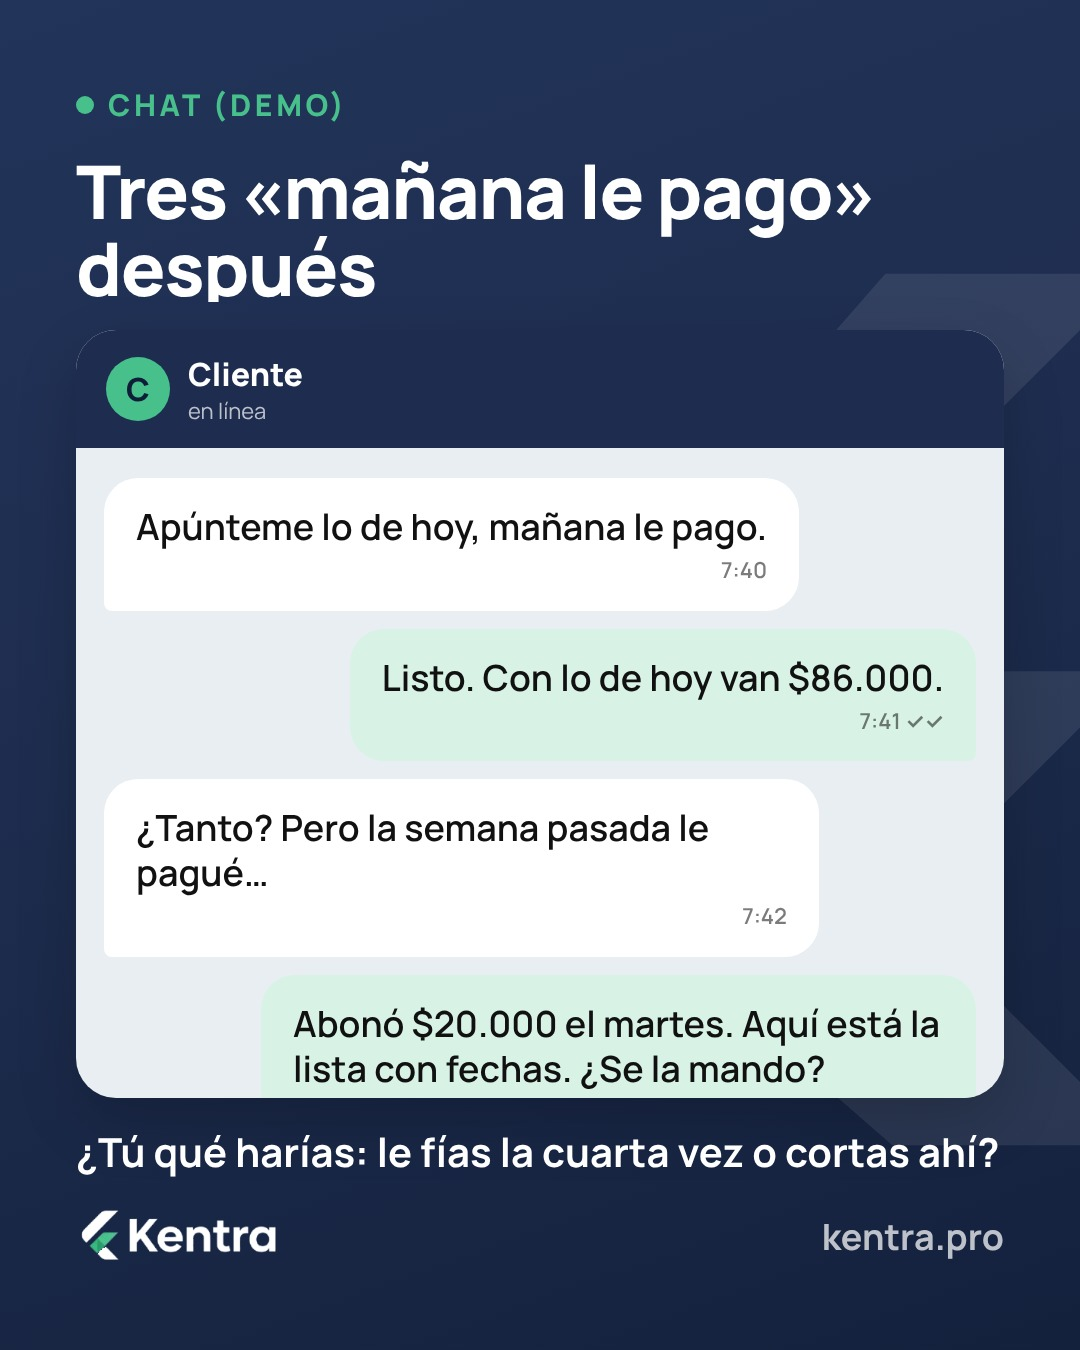
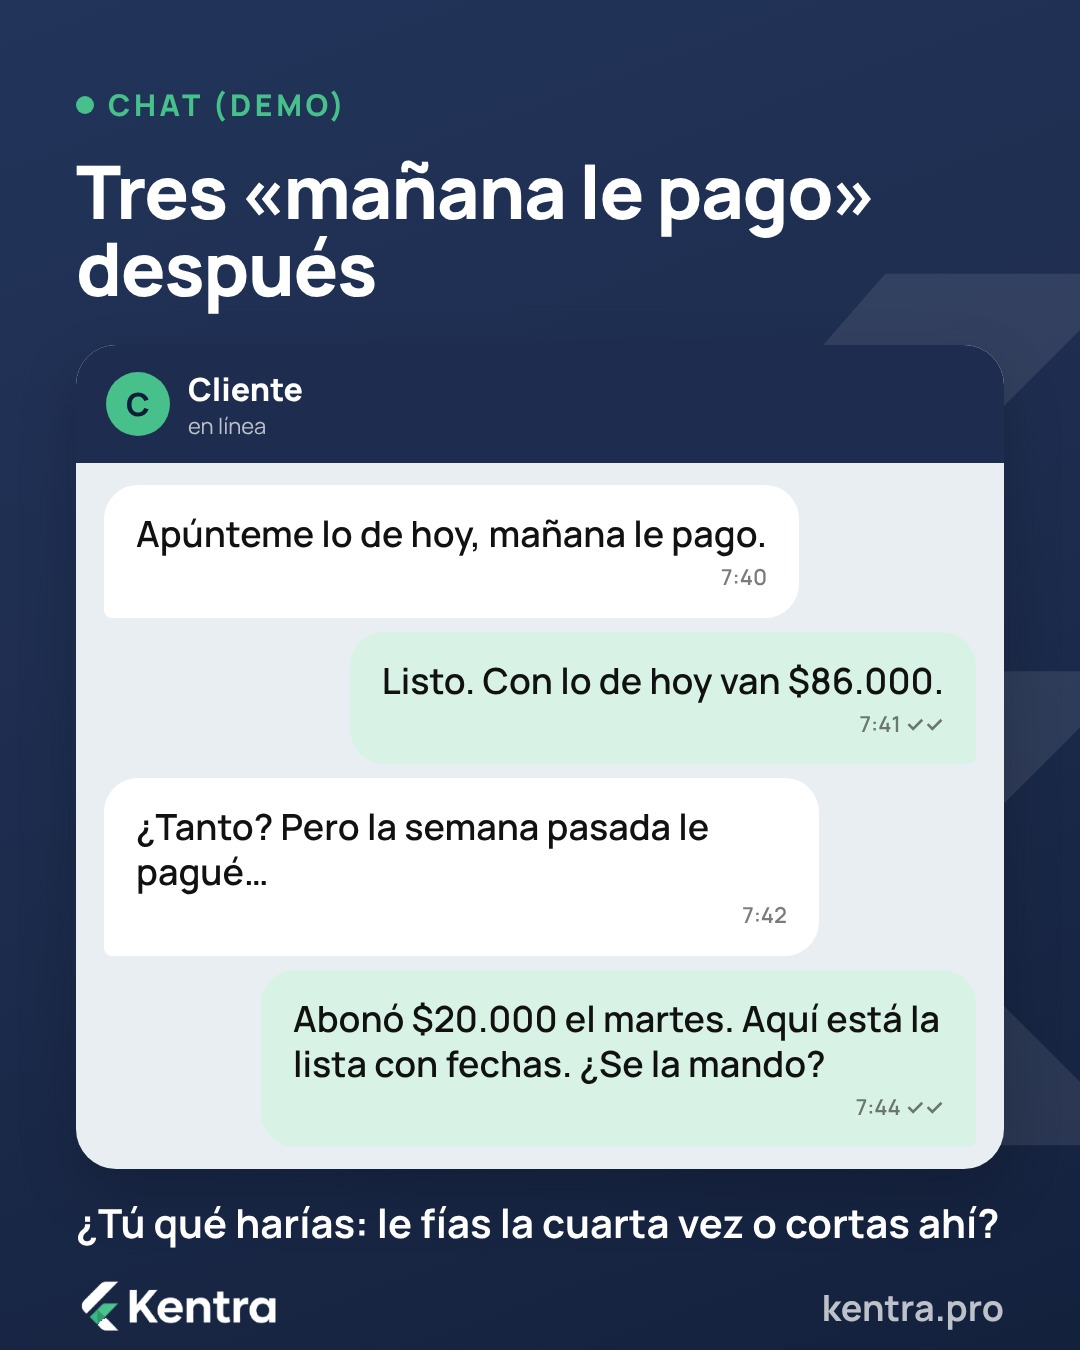
Render: el chat ya no recorta la última burbuja (4 piezas re-renderizadas)

diff --git a/memoria.md b/memoria.md
@@ -46,3 +46,4 @@ Regla: registrar hechos y hipótesis, no opiniones. Una línea por aprendizaje, 
 - **Lecciones del 21 oct**: las 30 piezas del 27 oct – 1 nov salieron de `calendario.json` a `cola_qa.json` (ticket de Sky: estaban sin QA); esos días quedan sin feed hasta que Karol apruebe (no había reservas aprobadas para tapar cupos). El post del 30 oct 18:00 se rehízo como meme (tendencia urgente «la empresa en crisis. Yo: decorando», v2). Las piezas del 18 oct no modelan referencias con url (son anteriores a la regla): Karol puede devolverlas. Render: `clip-path` dentado del `recibo` se dibuja de derecha a izquierda; el `chat` no puede tener alto fijo o recorta burbujas; `meme` con globo lleva la mascota al 27 % para que no tape el celular; las iniciales del `skit` se fijan con `inicial` cuando los dos nombres empiezan igual. Logo: no se pudo verificar contra holding-tagoo/marcas/kentra (sin acceso en la sesión); se usó `marca/logo.png` del repo, el mismo de todas las piezas.
 - **Para la semana 8**: medir H16–H18 y las devoluciones de Karol. No repetir hasta el 29 de noviembre: tres márgenes de la pizzería, descuento vs envío, «me pagas el lunes», 5 frases para cobrar, velas a $8.000, reparto $2.400.000, pitch $50 millones, 4 cuentas Buen Fin, café de $6.000, torta de $120.000, impuestos apartados, precio piso $71.000, sábado del salón, precio de amigo, 5 cuentas de memoria, «¿cuánto te deben hoy?». Buen Fin es del 13 al 17 nov: la semana 8 (9–15 nov) debe tener Buen Fin en vivo y Black Friday (27 nov) empieza a asomar.
 - **Correcciones de Karol (21 oct, semana 6)**: devolvió 16 de las 30 piezas del 27 oct – 1 nov, casi todas por C3 (modelaban «el brief de Tury» sin url: no cuenta como referencia) y C2 (dos mockups `app` seguidos, mismo gancho a las 08:00 y 10:00 del mismo día, 4 piezas del día con la misma referencia, pregunta sin número que adivinar). Regla que queda: cada pieza con una referencia con url del mercado de Sky; nunca repetir el gancho de la historia de las 08:00 en el post de las 10:00; máximo un mockup `app` por bloque de piezas seguidas; una referencia por día como máximo en 2 piezas; las preguntas llevan número u opciones. Se rehicieron como v2: chat con cliente difícil (27 08:00), reparto del freelancer $3.600.000 (27 10:00), carrusel 5 retos «¿a cuánto lo vendes?» (27 12:00), frase ante el fiado (27 19:00), split «vendimos el doble» (28 10:00), carrusel pizarra de los tres márgenes con tienda de ropa $9.000.000 (28 12:00), tiquete de hamburguesa $18.000 (29 08:00), skit galletas a $3.000 (29 10:00), tweet «al que te debe no le da pena» (29 18:00), tiquete de camiseta $45.000 (30 10:00), reto ganancia vs caja (30 19:00), chat del fiado «tres mañana le pago» (31 10:00), pizarra IVA/DIAN $10.000.000 (31 18:00), frase ante el precio «más o menos» (31 19:00), meme «$250.000 por un logo» (1 nov 18:00), pizarra-reto meta de noviembre (1 nov 19:00). Ojo: el carrusel del 28 oct (tres márgenes) y el del 2 nov (tres márgenes, pizzería) comparten tema por pedido de Karol; si devuelve uno, cambiar el del 2 nov. Hallazgos de render: `chat` historia aguanta título + 4 burbujas cortas (≤ 2 líneas) sin `cierre`; `recibo` historia aguanta 5 ítems + `pie` sin `nota`, en post 5 ítems sin `pie` (el zigzag lo recorta); `skit` post aguanta 6 líneas de ≤ 55 caracteres sin `cierre`.
+- **Render (21 oct, corrida paralela de Balvin)**: el `chat` recortaba la última burbuja sin avisar (el cuadro y el título se encogían dentro del área segura); ahora van con `flex:none` y menos relleno, así que si no cabe el render avisa DESBORDE. Se re-renderizaron las 4 piezas `chat` (27 y 31 oct, 5 y 7 nov) sin cambiar su contenido. Lección de proceso: hoy corrieron dos sesiones de Balvin a la vez (13:53 y 14:46 UTC) y la segunda repitió las 16 correcciones y los tickets a Karol; la corrida de las 15:02 anuló sus duplicados. Antes de rehacer piezas, comprobar en tickets que nadie las haya enviado ya ("procesado por Balvin").
